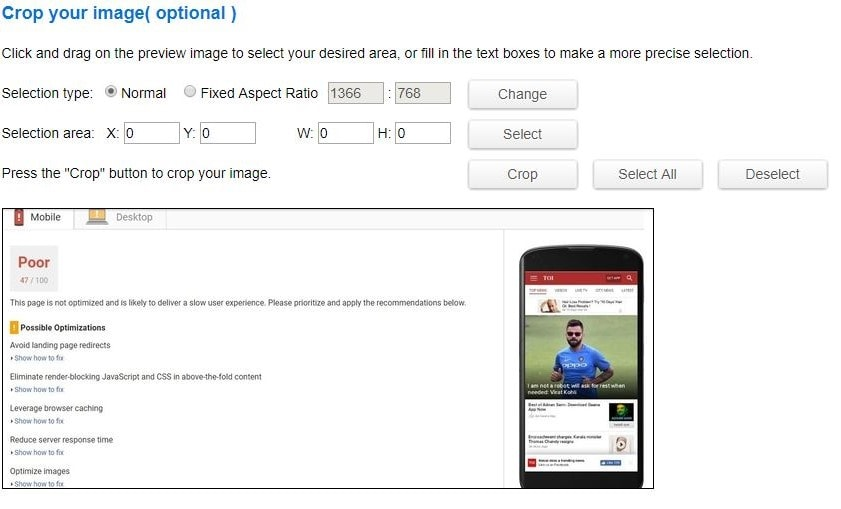
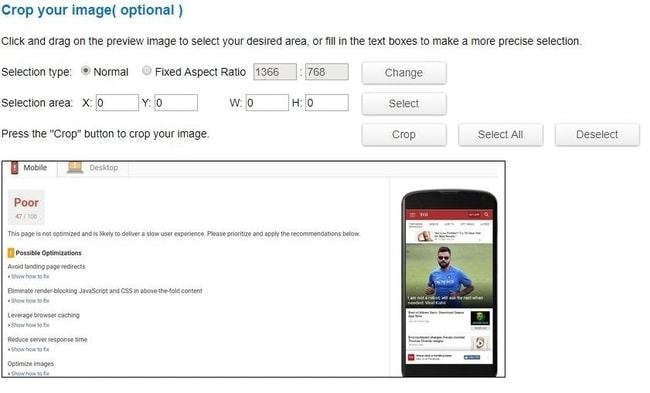
Content and image updated

diff --git a/top-5-ways-to-speed-up-your-website.html b/top-5-ways-to-speed-up-your-website.html
@@ -113,7 +113,7 @@
                               <h2 class="post-title bold">Top 5 Ways To Speed Up Your Website</h2>
                               <div class="border"></div>
                               <div class="blog-page">
-                                 <h4><i class="fa fa-user" aria-hidden="true"></i> Himanshu Saraswat | <i class="fa fa-calendar" aria-hidden="true"></i> Saturday,November 18,2017</h4>
+                                 <h4><i class="fa fa-user" aria-hidden="true"></i> Himanshu Saraswat | <i class="fa fa-calendar" aria-hidden="true"></i> Saturday,November 20,2017</h4>
                               </div>
                            </div>
                            <div class="post-thumb">
@@ -205,7 +205,7 @@
                                  <picture>
                                     <source media="(min-width: 651px)" srcset="images\blog\toi-crop-image.jpg">
                                     <source media="(max-width: 650px)" srcset="images\blog\toi-crop-image-mob.jpg">
-                                    <img src="images\blog\toi-crop-image.jpg" alt="Crop image efficiently using resizeimage.net to perfect dimension" class="col-md-12 col-sm-12 col-xs-12">
+                                    <img src="images\blog\toi-crop-image.jpg" alt="Crop image efficiently using resizeimage.net to perfect dimension" class="col-md-12 col-sm-12 col-xs-12" style="max-width: 650px;padding-left: 7%;">
                                  </picture>
                               </div>
                               <p>Once you have the images of right dimensions, compressing them further remarkably reduces their size without compromising on quality.</p>
@@ -213,7 +213,7 @@
                                  <picture>
                                     <source media="(min-width: 651px)" srcset="images\blog\resize-compress-image.png">
                                     <source media="(max-width: 650px)" srcset="images\blog\resize-compress-image-mob.png">
-                                    <img src="images\blog\resize-compress-image.png" alt="Resize image efficiently using resizeimage.net" class="col-md-12 col-sm-12 col-xs-12">
+                                    <img src="images\blog\resize-compress-image.png" alt="Resize image efficiently using resizeimage.net" class="col-md-12 col-sm-12 col-xs-12" style="max-width: 650px;padding-left: 7%;">
                                  </picture>
                               </div>
                               <p><b style="font-size: 1em;">B. </b><a target="_blank" style="margin: 0;display: inline;text-decoration: underline;color: #e4681f;background: none;" href="http://resizeimage.net/" rel="nofollow"> <strong>Optimizilla</strong></a><img src="images\blog\optimizilla-logo.png" alt="Compress images to optimum level using optimizilla.com" style="max-height:64px;max-width: 64px;"> has a strong algorithm to compress images with no loss in quality. What I really like is the tool's default settings are capable enough to provide an average 60% reduction in image size.</p>
@@ -234,13 +234,13 @@
                                  </picture>
                               </div>
                               <p>Learn more @w3schools on <a target="_blank" style="margin: 0;display: inline;text-decoration: underline;color: #e4681f;background: none;" href="https://www.w3schools.com/tags/tag_picture.asp" rel="nofollow">How to use picture tag</a></p>
-                              <p><b style="font-size: 1.3em;">2.</b><b> Serve static content from sub-domain.</b></p>
+                              <p><b style="font-size: 1.3em;">2.</b><b> Serve static content from sub-domain</b></p>
                               <p>Sub-domain implementation significantly reduces the total size of requests made for a web page. Browsers limit the number of concurrent connections that can be made in a range of 4 to 6 connections considering Safari, Chrome and Firefox.</p>
-                              <p>A cookieless subdomain can be created easily using a CNAME. What you need to do is to head over to your cPanel and create a subdomain. </p>
+                              <p>A cookieless subdomain can be created easily using a CNAME. Head over to your cPanel and create a subdomain. </p>
                               <p>Setup guide from Hostgator@<a target="_blank" style="margin: 0;display: inline;text-decoration: underline;color: #e4681f;background: none;" href="http://support.hostgator.com/articles/cpanel/what-is-a-subdomain-name-how-do-i-create-and-delete-one" rel="nofollow">What is a Subdomain Name? How Do I Create and Delete One?</a></p>
                               <p>A bonus benefit to serving static content from a cookieless domain is that you can <strong><i>double the number of page components that browsers can download in parallel</i></strong>.  But realize that this works best when the components are balanced across two domains.  If 95% of your assets are static files and if you move all of them to static.example.com, you aren’t really taking advantage of maximizing parallel connections.  You’re just incurring the extra DNS lookup.</p>
                               <p>Another recommendation you will observe in your web page audit report will be to <strong>reduce the number of HTTP requests</strong>.</p>
-                              <p><b style="font-size: 1.3em;">3.</b><b> How to reduce HTTP requests to speed up your web page?</b></p>
+                              <p><b style="font-size: 1.3em;">3.</b><b> Reduce HTTP requests to speed up your web page</b></p>
                               <p>Static assets take a lot of bandwidth and make a number of requests to your server. If not done asynchronously they even obstruct your web page to load.</p>
                               <p><b style="font-size: 1em;">A.</b> As an initial step, identify the scripts on your webpage which are not necessary to load sequentially. Mark such scripts with the <strong>async</strong> attribute. Have a look at how <a target="_blank" style="margin: 0;display: inline;text-decoration: underline;color: #e4681f;background: none;" href="https://developers.google.com/analytics/devguides/collection/analyticsjs/" rel="nofollow">google analytics</a> uses the <strong>async</strong> attribute to boost web page performance:</p>
                               <div class="row">
@@ -266,7 +266,7 @@
                               <pre><code>https://maxcdn.bootstrapcdn.com/bootstrap/3.3.7/css/bootstrap.min.css</code></pre>
                               <pre><code>https://maxcdn.bootstrapcdn.com/font-awesome/4.7.0/css/font-awesome.min.css</code></pre>
                               </p>
-                              <p><b style="font-size: 1.3em;">4.</b><b> Remove unused pieces of code. especially CSS.</b></p>
+                              <p><b style="font-size: 1.3em;">4.</b><b> Remove unused pieces of code. especially CSS</b></p>
                               <p>CSS accommodate a large chunk of your website's space. Since they are very important from a design perspective you can't just ignore them. While developing many times we let go of the unused CSS code.</p>
                               <p><b>#. </b>Online tools like<a target="_blank" style="margin: 0;display: inline;text-decoration: underline;color: #e4681f;background: none;" href="https://uncss-online.com/" rel="nofollow"> <strong>UnCSS Online!</strong></a> comes in very handy and let you get rid of unused code chunks with one easy click.</p>
                               <div class="row">
@@ -276,7 +276,7 @@
                                     <img src="images\blog\unCSS-online.jpg" alt="Remove un-used CSS using unCSS online tool with one click to speed up your web page" class="col-md-12 col-sm-12 col-xs-12">
                                  </picture>
                               </div>
-                              <p><b style="font-size: 1.3em;">5. </b><b>How does Content delivery network help speed up your web page?</b></p>
+                              <p><b style="font-size: 1.3em;">5. </b><b>Use content delivery network to help speed up your web page</b></p>
                               <div class="row">
                                  <picture>
                                     <source media="(min-width: 651px)" srcset="images\blog\whatisacdn.png">
